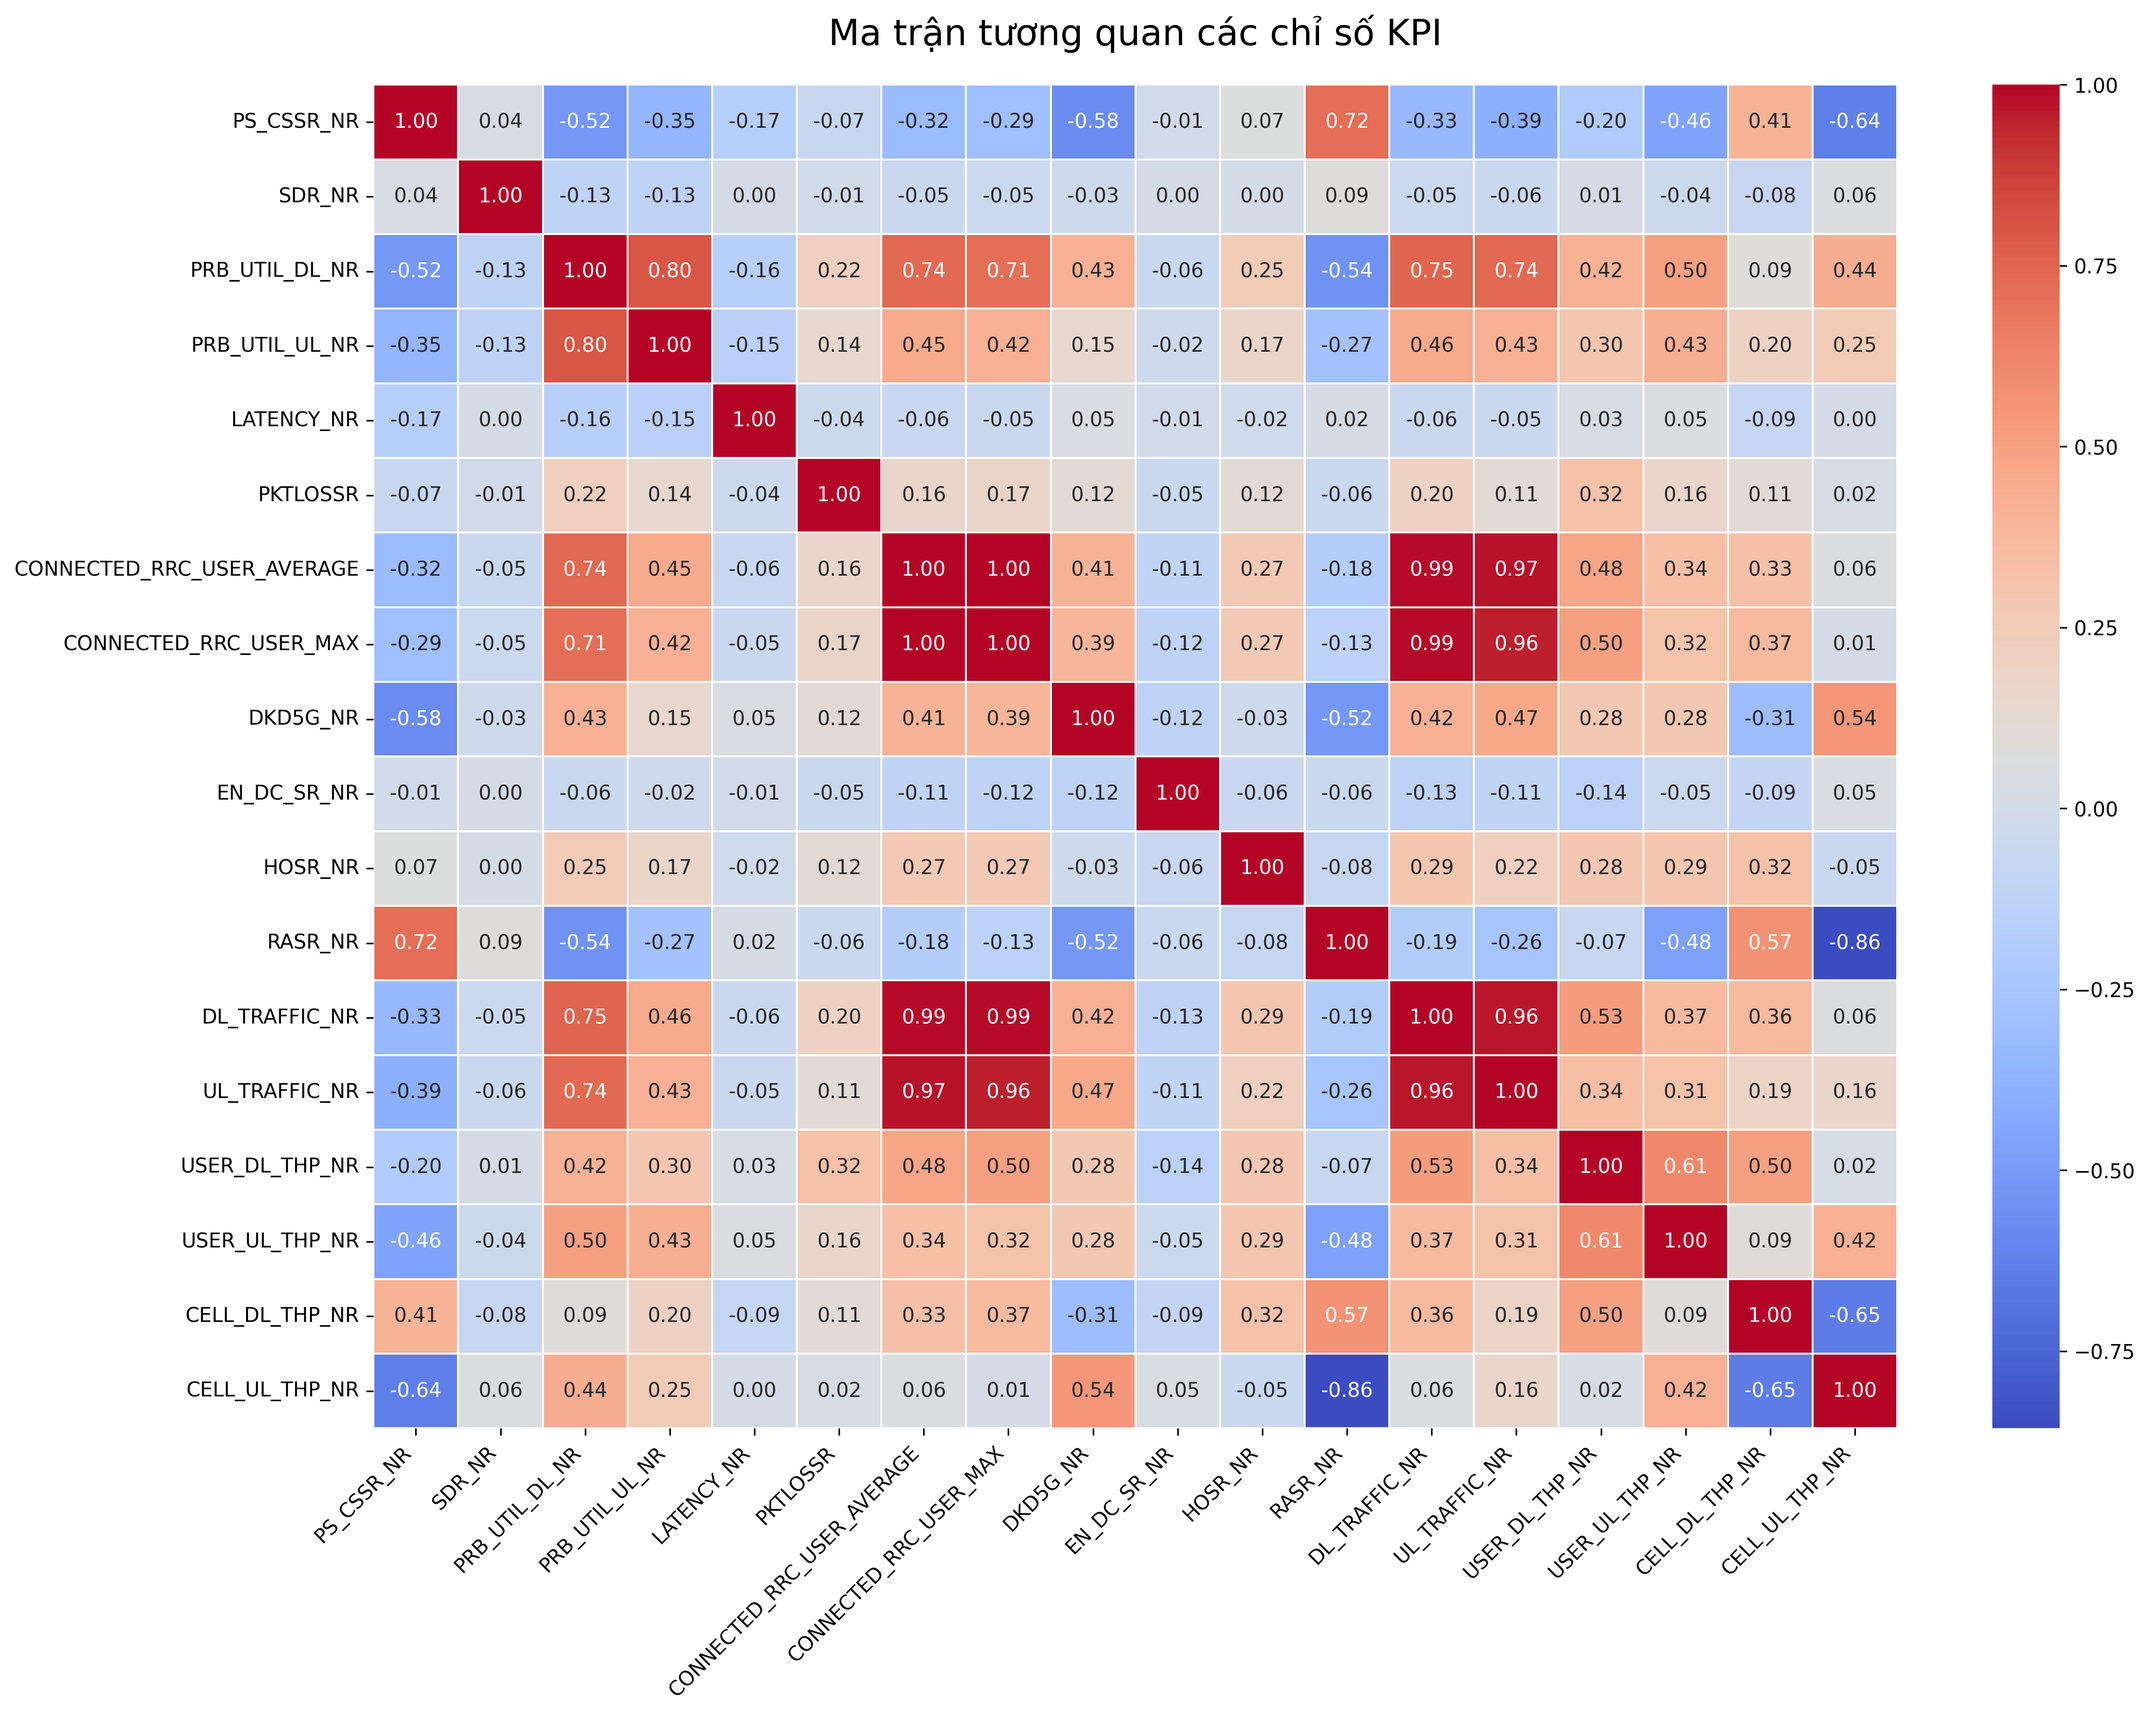
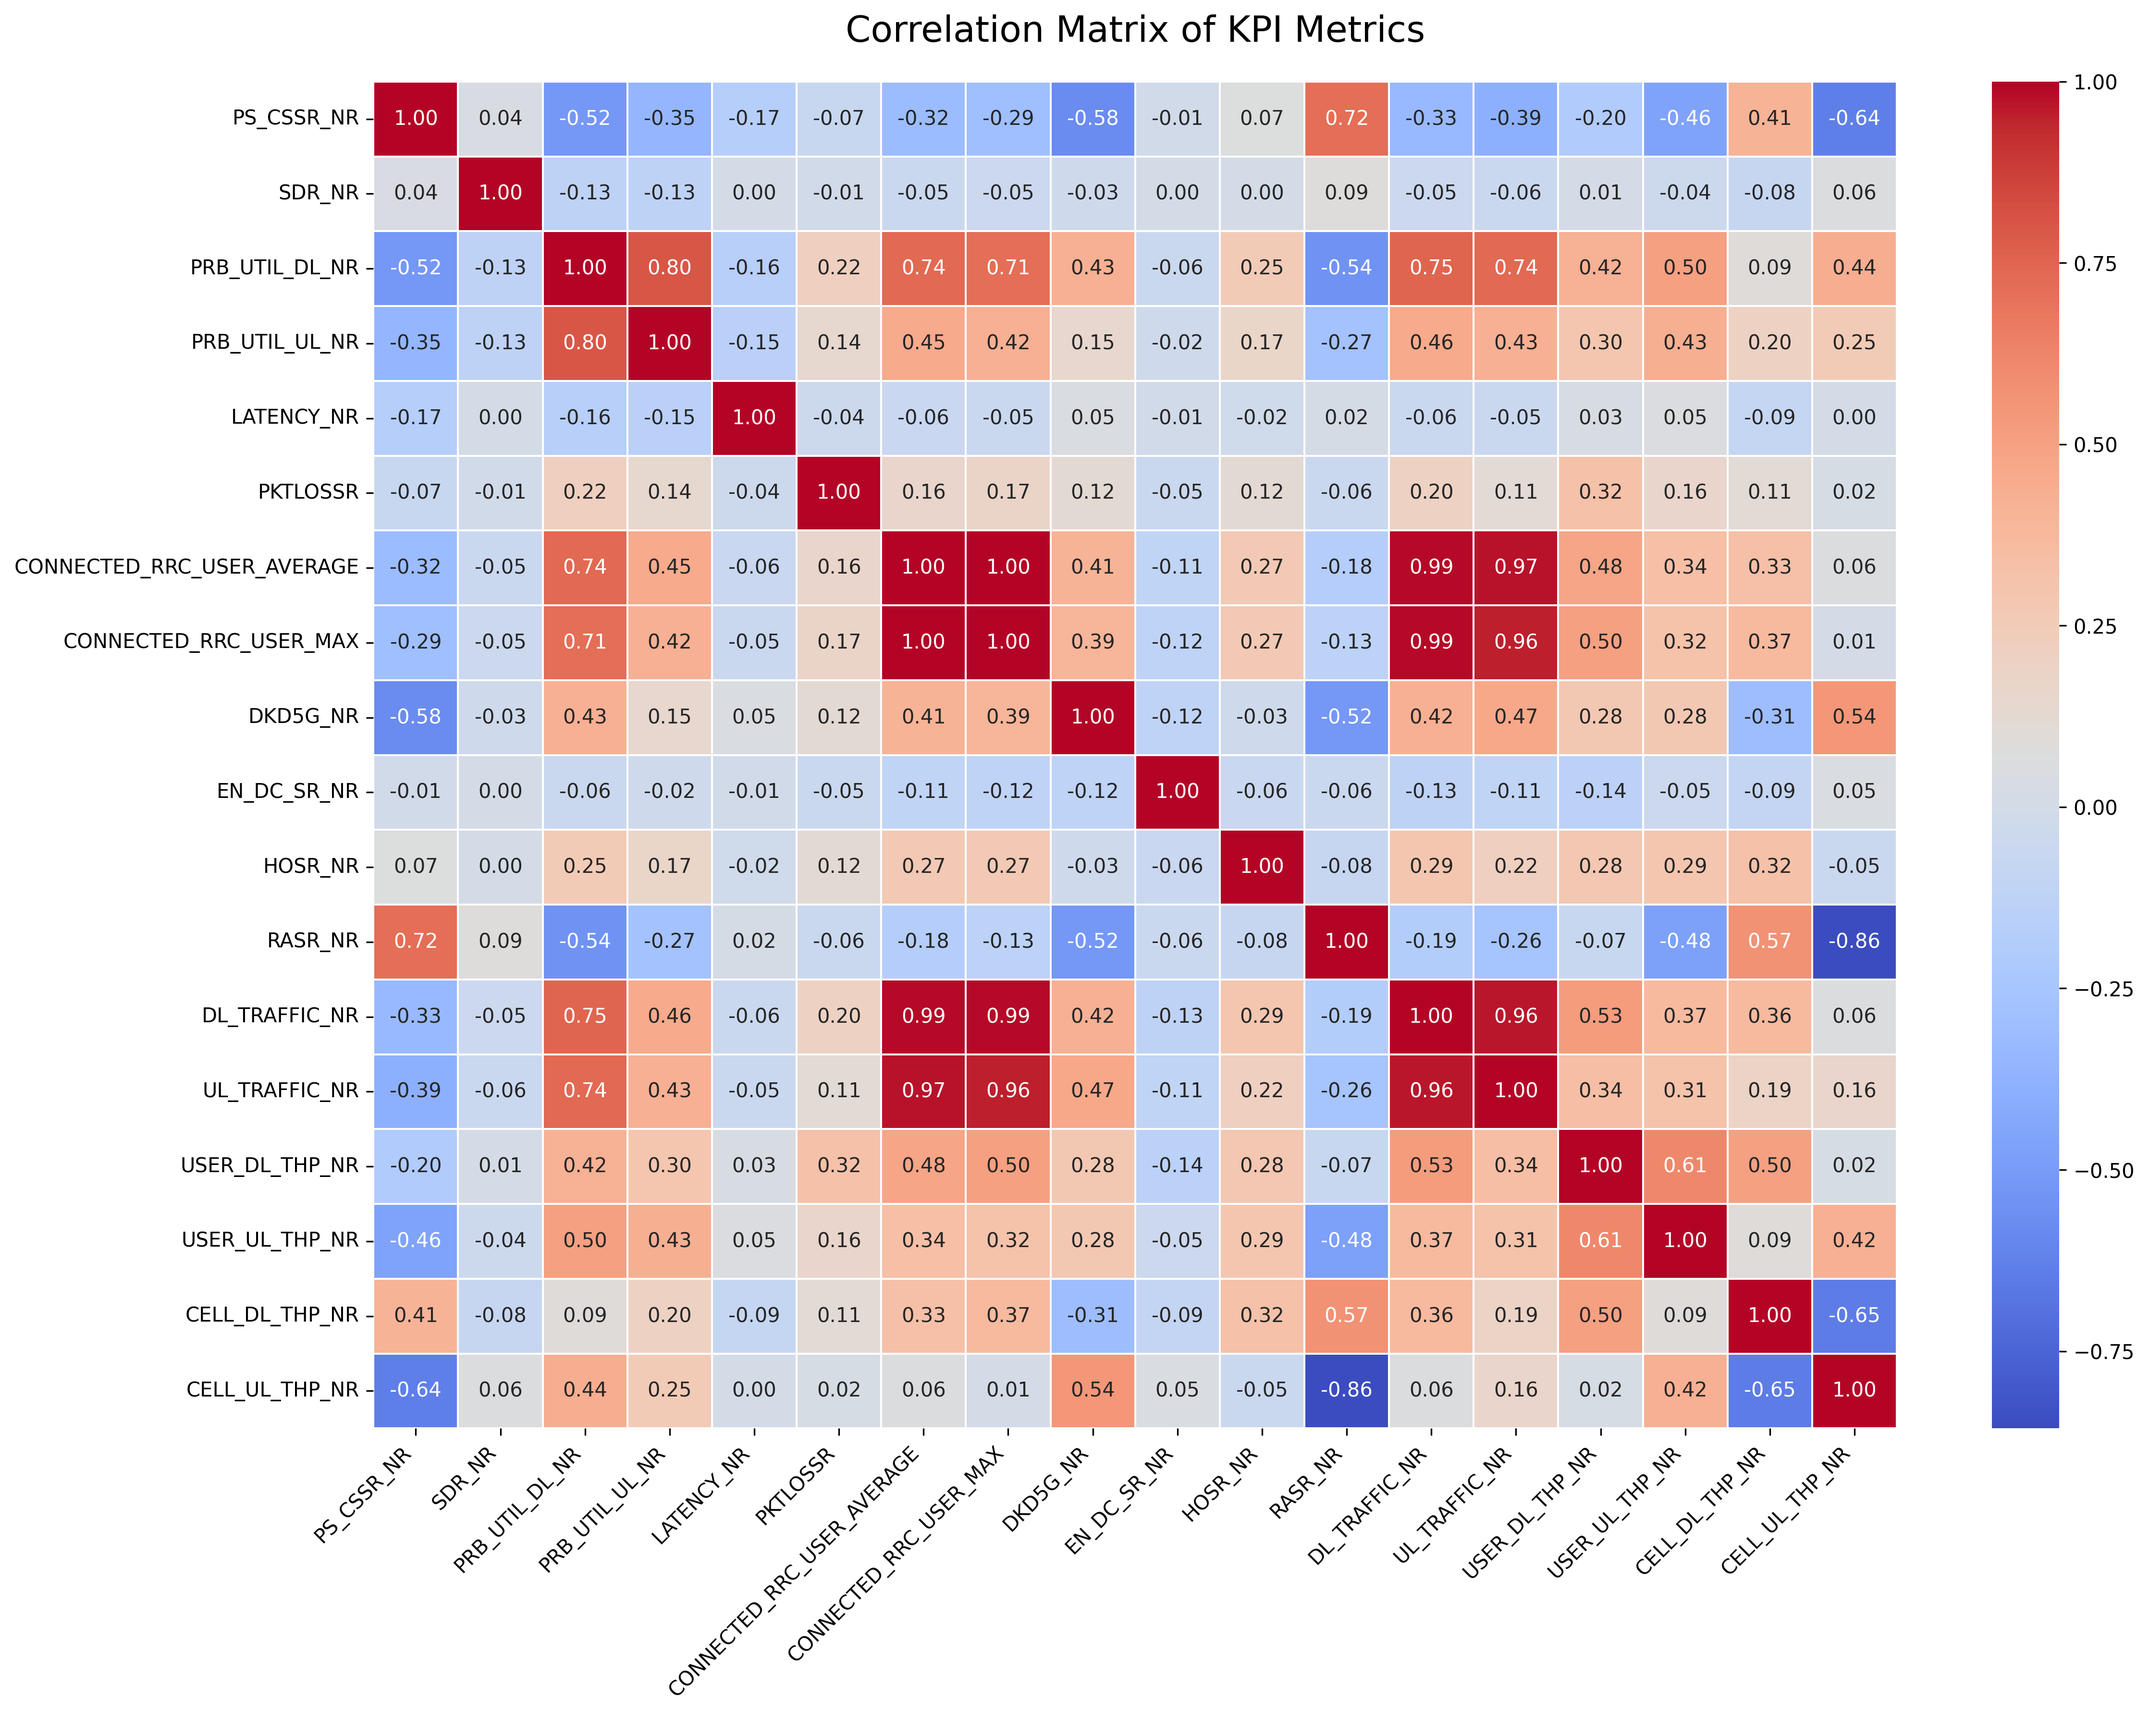
translate to English

diff --git a/LSTM_predict.py b/LSTM_predict.py
@@ -8,9 +8,7 @@ import torch
 import torch.nn as nn
 from torch.utils.data import DataLoader, TensorDataset
 
-
-
-# 1. Đọc file CSV và chọn cột
+# 1. Read CSV file and select columns
 file_path = r'D:\Data_Paper_5G\DATA\TTML.csv'
 df = pd.read_csv(file_path)
 
@@ -36,67 +34,67 @@ selected_columns = [
     'CELL_DL_THP_NR',
     'CELL_UL_THP_NR'
 ]
+
 df = df[selected_columns]
 
-# Chuyển DATETIME_ID thành datetime (giả sử format YYYYMMDDHH)
+# Convert DATETIME_ID to datetime (assuming format YYYYMMDDHH)
 df['DATETIME_ID'] = pd.to_datetime(df['DATETIME_ID'].astype(str), format='%Y%m%d%H')
 
-# Sort theo thời gian và TTML
+# Sort by time and TTML
 df = df.sort_values(by=['TTML', 'DATETIME_ID']).reset_index(drop=True)
 
-# Xử lý missing values (nếu có, điền mean của cột)
+# Handle missing values (fill with column mean if exists)
 df.fillna(df.mean(numeric_only=True), inplace=True)
 
-# 2. Phân tích dữ liệu
-print("Thông tin DataFrame:")
+# 2. Data analysis
+print("DataFrame Information:")
 print(df.info())
 
-print("\nThống kê mô tả:")
+print("\nDescriptive Statistics:")
 print(df.describe())
 
-print("\nCorrelation matrix (chỉ cột numeric):")
+print("\nCorrelation Matrix (numeric columns only):")
 corr = df.corr(numeric_only=True)
 print(corr)
 
-# Kiểm tra missing values
-print("\nMissing values:")
+# Check missing values
+print("\nMissing Values:")
 print(df.isnull().sum())
 
-# 3. Vẽ báo cáo (biểu đồ line cho các KPI chính theo thời gian, group by TTML)
-kpi_columns = ['PS_CSSR_NR', 'SDR_NR', 'PRB_UTIL_DL_NR', 'LATENCY_NR', 'USER_DL_THP_NR', 'USER_UL_THP_NR']  # Chọn vài KPI chính để vẽ (bạn có thể thêm)
+# 3. Plot report (line charts for main KPIs over time, grouped by TTML)
+kpi_columns = ['PS_CSSR_NR', 'SDR_NR', 'PRB_UTIL_DL_NR', 'LATENCY_NR', 'USER_DL_THP_NR', 'USER_UL_THP_NR']
 
 for kpi in kpi_columns:
     plt.figure(figsize=(12, 6))
     for ttml in df['TTML'].unique():
         subset = df[df['TTML'] == ttml]
         plt.plot(subset['DATETIME_ID'], subset[kpi], label=ttml)
-    plt.title(f'Biểu đồ {kpi} theo thời gian')
-    plt.xlabel('Thời gian')
+    plt.title(f'{kpi} over Time')
+    plt.xlabel('Time')
     plt.ylabel(kpi)
     plt.legend()
     plt.grid(True)
-    plt.savefig(f'{kpi}_report.png')  # Lưu file ảnh
+    plt.savefig(f'{kpi}_report.png')
     plt.show()
 
-# Vẽ heatmap correlation
+# Plot correlation heatmap
 plt.figure(figsize=(16, 12))
-mask = np.triu(np.ones_like(corr, dtype=bool))  
-
+mask = np.triu(np.ones_like(corr, dtype=bool))
 sns.heatmap(corr, annot=True, cmap='coolwarm', fmt='.2f', linewidths=0.5)
-
-plt.title('Ma trận tương quan các chỉ số KPI', fontsize=18, pad=20)
+plt.title('Correlation Matrix of KPI Metrics', fontsize=18, pad=20)
 plt.xticks(rotation=45, ha='right', fontsize=10)
 plt.yticks(rotation=0, fontsize=10)
 plt.tight_layout()
 plt.savefig('correlation_heatmap.png', dpi=300, bbox_inches='tight')
 plt.show()
 
-# 4. Mô hình LSTM để dự đoán KPI (ví dụ: USER_DL_THP_NR)
-# Chuẩn bị data: Group by TTML, chọn target = 'USER_DL_THP_NR'
-target = 'USER_DL_THP_NR' # Thay bằng KPI bạn muốn dự đoán
-sequence_length = 10 # Độ dài sequence (window size)
-n_steps = 5 # Dự đoán bao nhiêu bước tiếp theo
-# Hàm tạo sequences cho LSTM
+# 4. LSTM model for KPI prediction (example: USER_DL_THP_NR)
+# Prepare data: group by TTML, choose target = 'USER_DL_THP_NR'
+target = 'USER_DL_THP_NR'
+sequence_length = 10
+n_steps = 5
+
+# Function to create sequences for LSTM
 def create_sequences(data, seq_length):
     xs, ys = [], []
     for i in range(len(data) - seq_length):
@@ -105,51 +103,53 @@ def create_sequences(data, seq_length):
         xs.append(x)
         ys.append(y)
     return np.array(xs), np.array(ys)
-# Model LSTM đơn giản
+
+# Simple LSTM model
 class LSTMModel(nn.Module):
     def __init__(self, input_size=1, hidden_size=50, num_layers=1):
         super(LSTMModel, self).__init__()
         self.lstm = nn.LSTM(input_size, hidden_size, num_layers, batch_first=True)
         self.fc = nn.Linear(hidden_size, 1)
-   
+  
     def forward(self, x):
         out, _ = self.lstm(x)
         out = self.fc(out[:, -1, :])
         return out
-# Dự đoán cho từng TTML
+
+# Predict for each TTML
 for ttml in df['TTML'].unique():
-    print(f"\nDự đoán cho {ttml}:")
-   
-    subset = df[df['TTML'] == ttml][[target]].values # Chỉ lấy target column
-   
+    print(f"\nPrediction for {ttml}:")
+  
+    subset = df[df['TTML'] == ttml][[target]].values
+  
     if len(subset) < sequence_length + 1:
-        print(f"Dữ liệu cho {ttml} quá ít ({len(subset)} dòng), bỏ qua LSTM.")
+        print(f"Data for {ttml} is too small ({len(subset)} rows), skipping LSTM.")
         continue
-   
+  
     # Scale data
     scaler = MinMaxScaler()
     subset_scaled = scaler.fit_transform(subset)
-   
-    # Tạo sequences
+  
+    # Create sequences
     X, y = create_sequences(subset_scaled, sequence_length)
-    X = X.reshape((X.shape[0], X.shape[1], 1)) # Reshape cho LSTM [samples, timesteps, features]
-   
-    # Chia train/test (80/20)
+    X = X.reshape((X.shape[0], X.shape[1], 1))
+  
+    # Train/test split (80/20)
     split = int(0.8 * len(X))
     X_train, X_test = X[:split], X[split:]
     y_train, y_test = y[:split], y[split:]
-   
+  
     # DataLoader
     train_data = TensorDataset(torch.from_numpy(X_train).float(), torch.from_numpy(y_train).float())
     train_loader = DataLoader(train_data, batch_size=32, shuffle=True)
-   
-    # Khởi tạo model
+  
+    # Initialize model
     model = LSTMModel()
     criterion = nn.MSELoss()
     optimizer = torch.optim.Adam(model.parameters(), lr=0.001)
-   
+  
     # Train
-    epochs = 50 # Điều chỉnh nếu cần
+    epochs = 50
     for epoch in range(epochs):
         model.train()
         for inputs, labels in train_loader:
@@ -160,30 +160,31 @@ for ttml in df['TTML'].unique():
             optimizer.step()
         if (epoch + 1) % 10 == 0:
             print(f'Epoch [{epoch+1}/{epochs}], Loss: {loss.item():.4f}')
-   
-    # Dự đoán trên test
+  
+    # Predict on test set
     model.eval()
     with torch.no_grad():
         predicted = model(torch.from_numpy(X_test).float()).numpy()
+
     predicted = scaler.inverse_transform(predicted)
-    y_test_original = scaler.inverse_transform(y_test)  # Đổi tên để rõ ràng
-   
-    # Tính metrics đánh giá
+    y_test_original = scaler.inverse_transform(y_test)
+  
+    # Evaluation metrics
     mse = mean_squared_error(y_test_original, predicted)
     rmse = np.sqrt(mse)
     mae = mean_absolute_error(y_test_original, predicted)
     r2 = r2_score(y_test_original, predicted)
-   
-    print(f"Đánh giá trên test set cho {ttml}:")
+  
+    print(f"Evaluation on test set for {ttml}:")
     print(f"MSE: {mse:.4f}")
     print(f"RMSE: {rmse:.4f}")
     print(f"MAE: {mae:.4f}")
     print(f"R² Score: {r2:.4f}")
-   
-    print(f"Dự đoán trên test set cho {ttml}:")
+  
+    print(f"Predictions on test set for {ttml}:")
     print(predicted.flatten())
-   
-    # Dự đoán tương lai (n_steps bước)
+  
+    # Predict future steps
     last_sequence = subset_scaled[-sequence_length:].reshape(1, sequence_length, 1)
     future_preds = []
     for _ in range(n_steps):
@@ -191,19 +192,19 @@ for ttml in df['TTML'].unique():
             pred = model(torch.from_numpy(last_sequence).float()).numpy()
         future_preds.append(pred[0][0])
         last_sequence = np.append(last_sequence[:, 1:, :], pred.reshape(1, 1, 1), axis=1)
-   
+  
     future_preds = scaler.inverse_transform(np.array(future_preds).reshape(-1, 1))
-    print(f"Dự đoán {n_steps} bước tiếp theo cho {ttml}:")
+    print(f"Future {n_steps} steps prediction for {ttml}:")
     print(future_preds.flatten())
-   
-    # Vẽ dự đoán
+  
+    # Plot predictions
     plt.figure(figsize=(12, 6))
-    plt.plot(subset, label='Thực tế')
+    plt.plot(subset, label='Actual')
     test_index = np.arange(len(subset) - len(y_test), len(subset))
-    plt.plot(test_index, predicted, label='Dự đoán test')
+    plt.plot(test_index, predicted, label='Test Prediction')
     future_index = np.arange(len(subset), len(subset) + n_steps)
-    plt.plot(future_index, future_preds, label='Dự đoán tương lai')
-    plt.title(f'Dự đoán {target} cho {ttml}')
+    plt.plot(future_index, future_preds, label='Future Prediction')
+    plt.title(f'Prediction of {target} for {ttml}')
     plt.legend()
     plt.savefig(f'lstm_{target}_{ttml}.png')
     plt.show()
